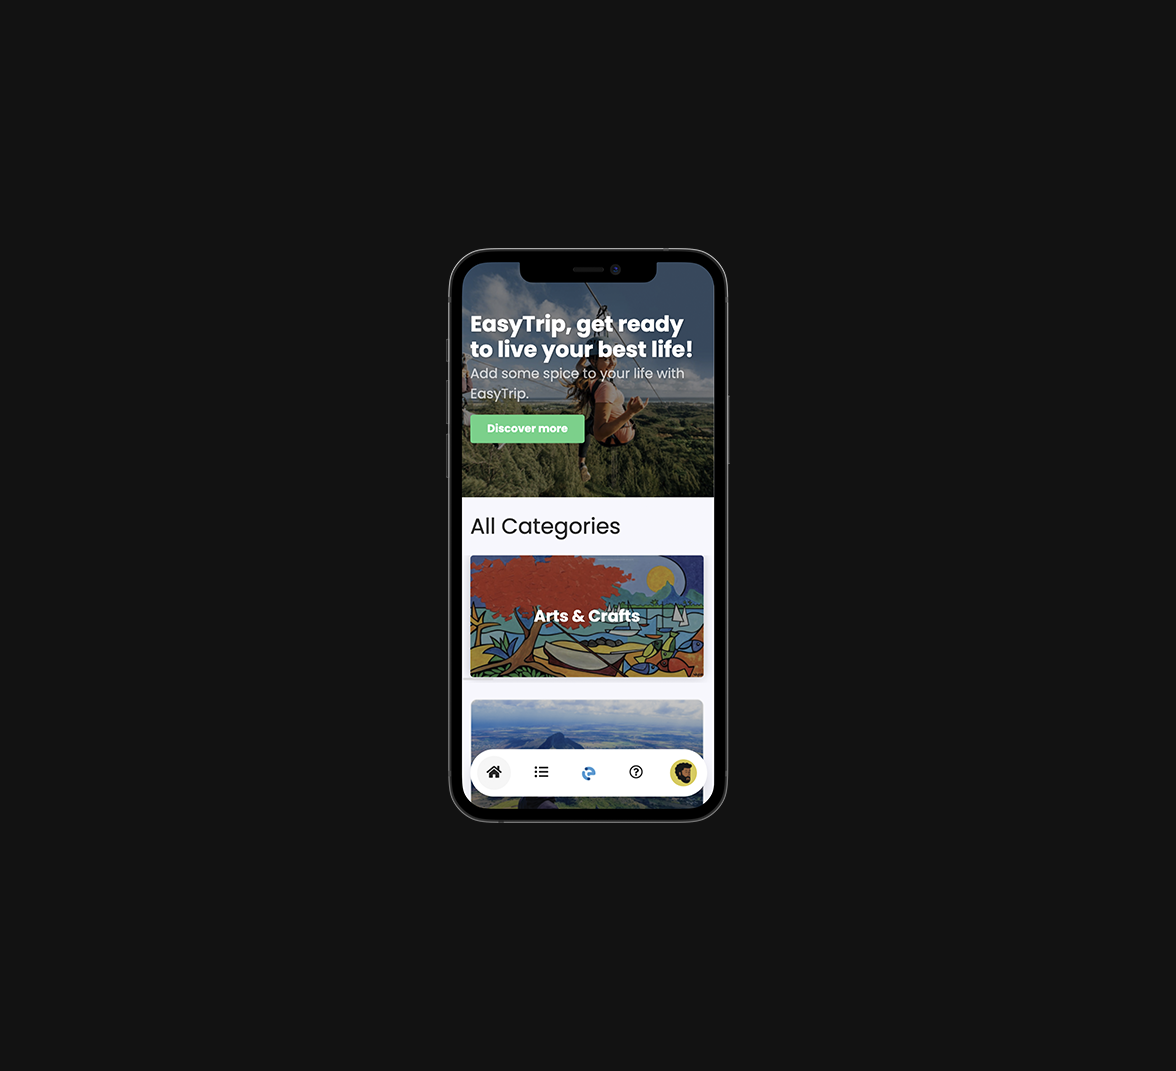
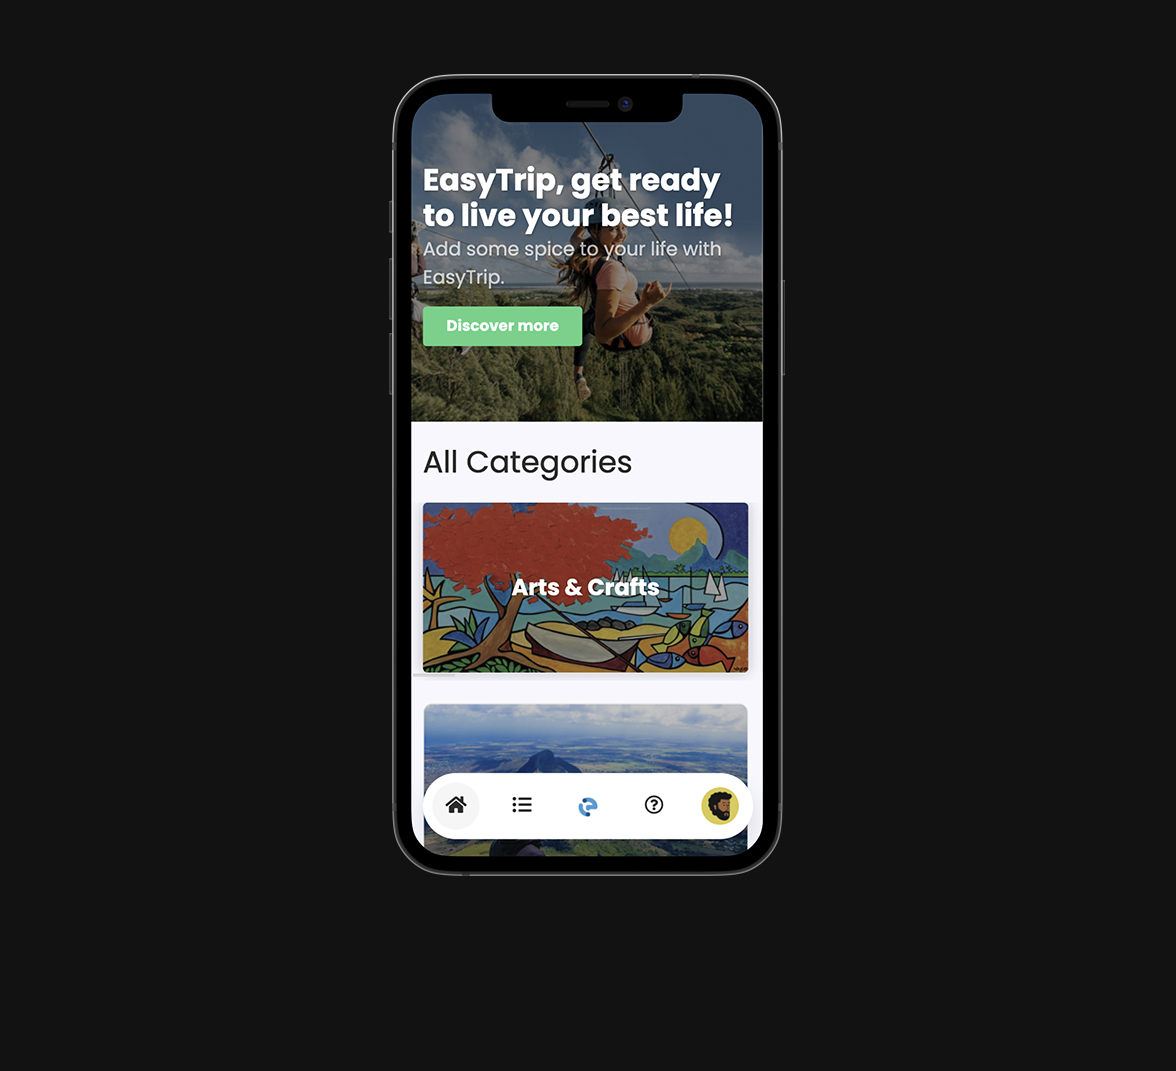
Added latest projects photos with mockups

Changed region(s): [[0.3061, 0.0616, 0.6735, 0.8319]]

diff --git a/style.css b/style.css
@@ -157,11 +157,11 @@ i:hover {
 }
 
 .two {
-    background-image: linear-gradient(rgba(0,0,0,0.2), rgba(0,0,0,0.8)), url(/images/rentanisland.png);
+    background-image: linear-gradient(rgba(0,0,0,0.2), rgba(0,0,0,0.8)), url(/images/rent-island.png);
 }
 
 .three {
-    background-image: linear-gradient(rgba(0,0,0,0.2), rgba(0,0,0,0.8)), url(/images/watchlist.png);
+    background-image: linear-gradient(rgba(0,0,0,0.2), rgba(0,0,0,0.8)), url(/images/easytrip-app.png);
 }
   
 .show-card h3 {
